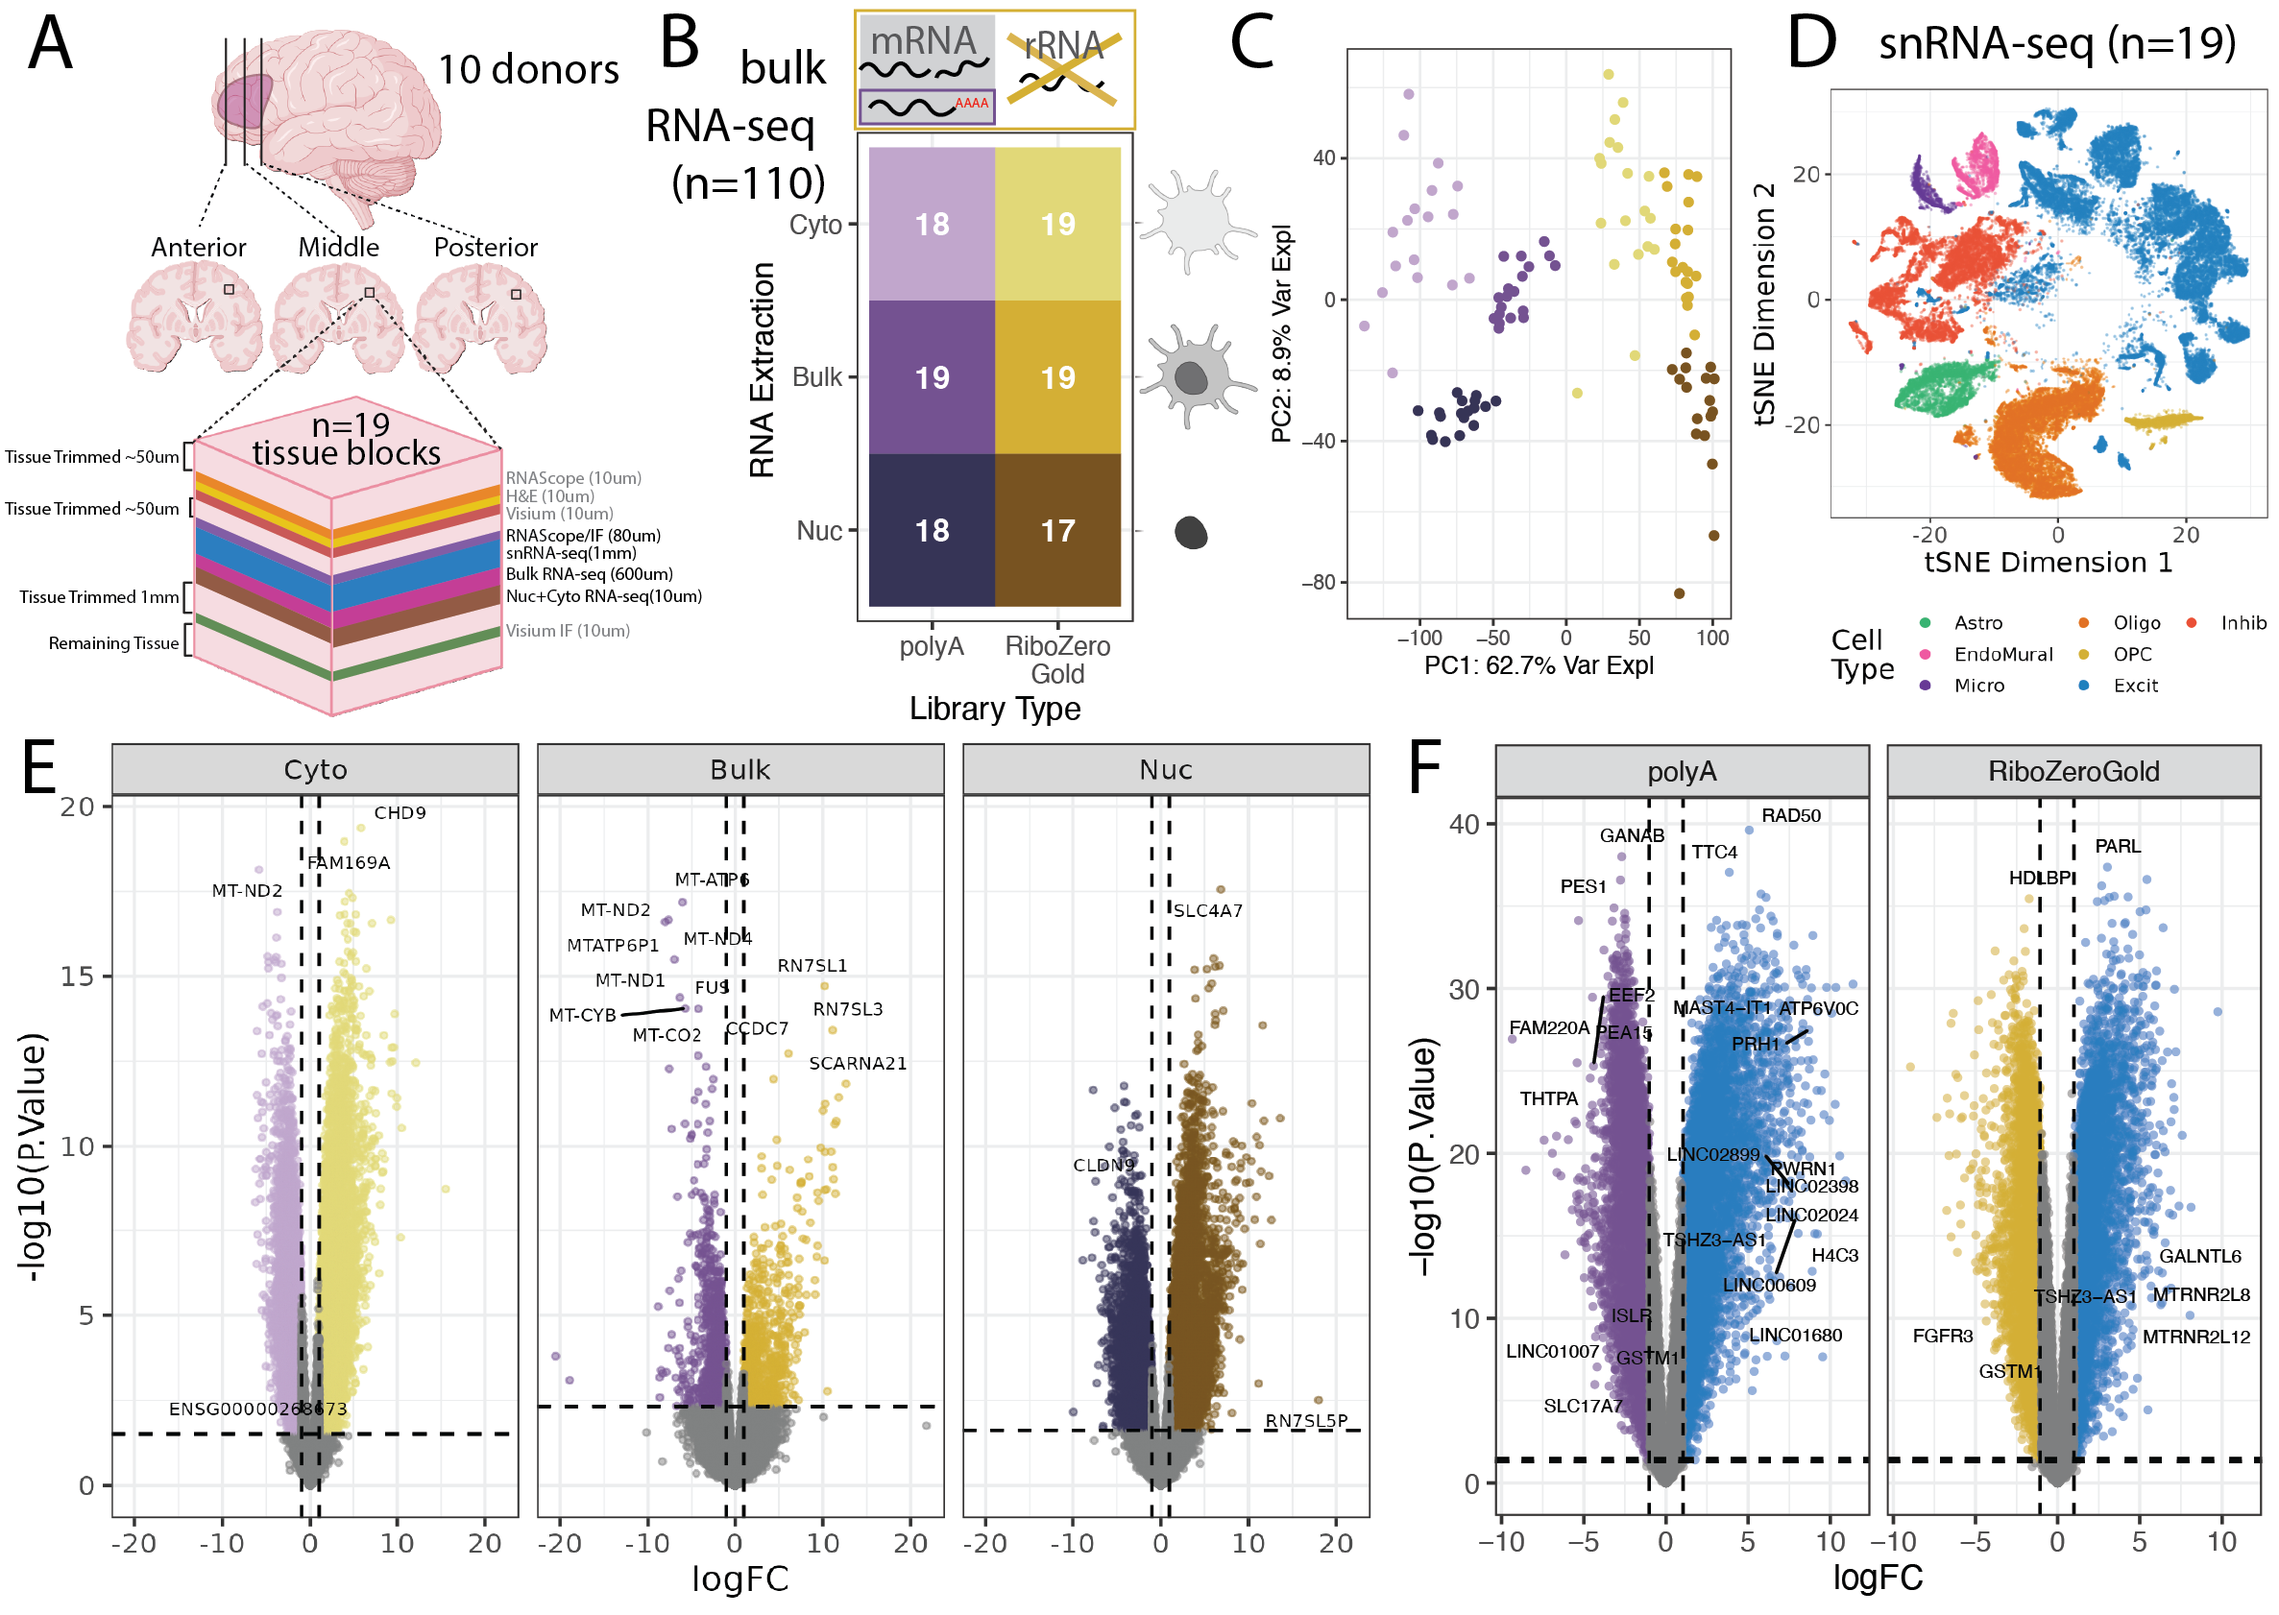
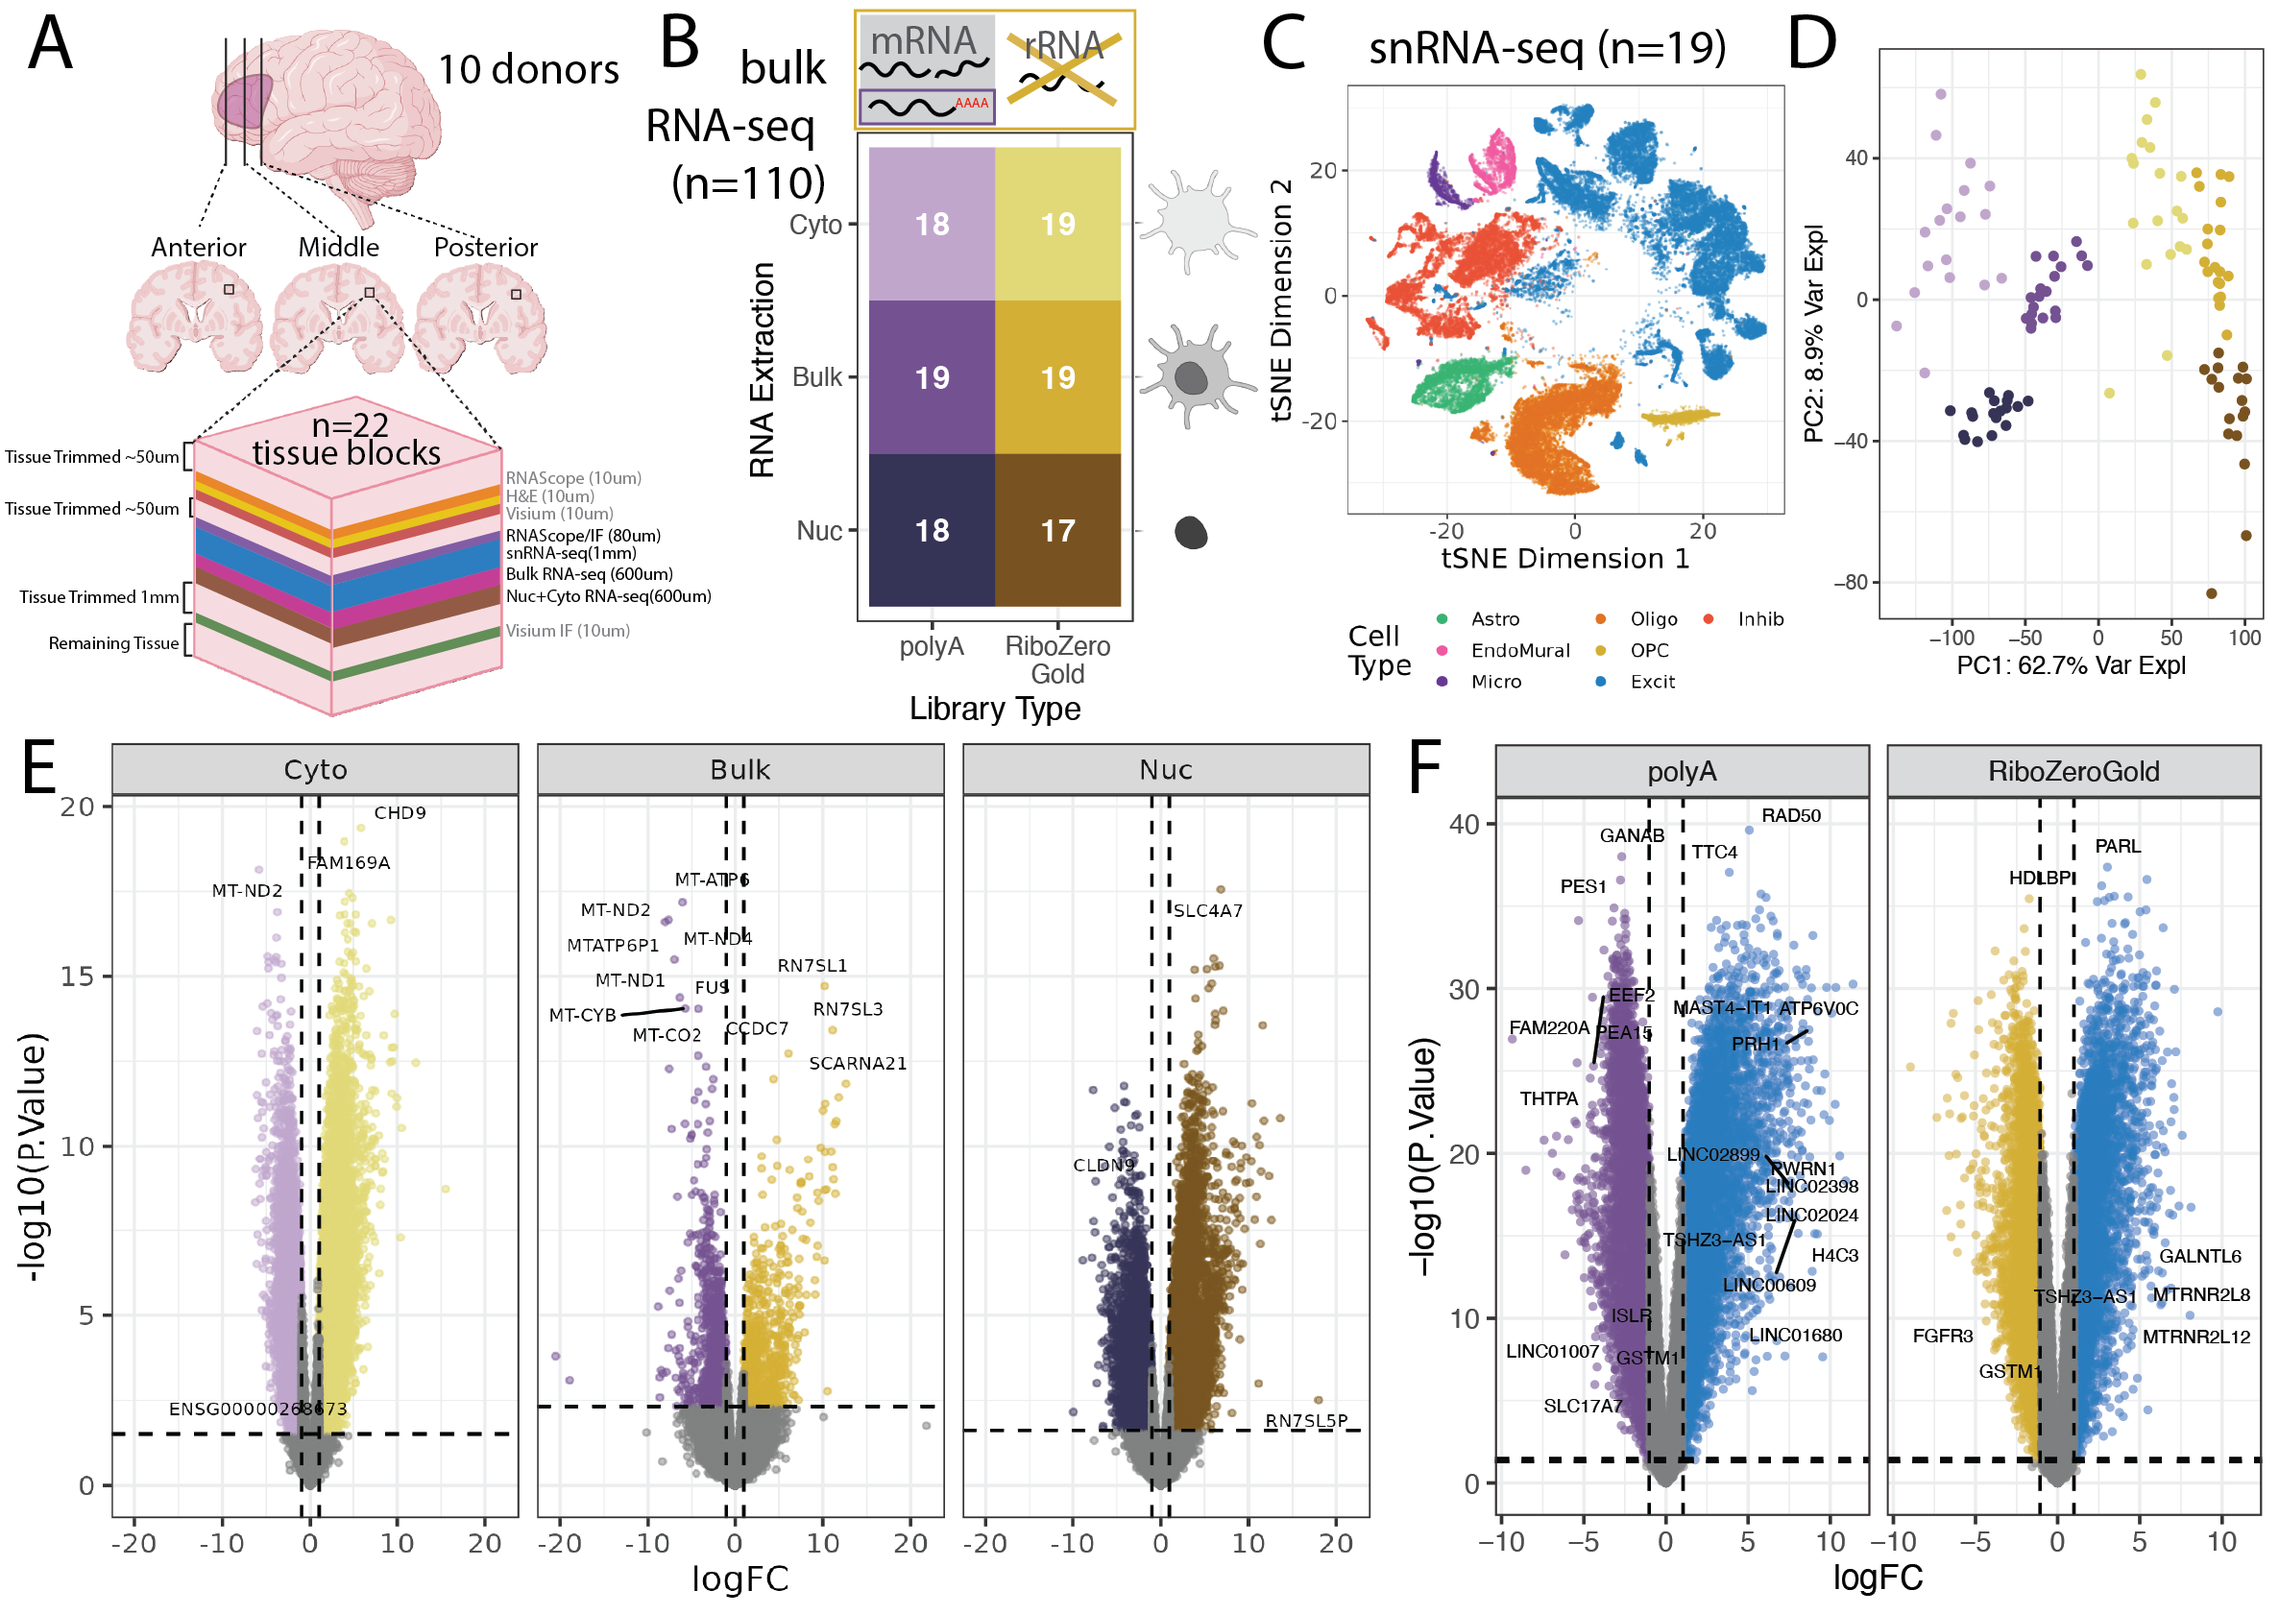
Update Fig 1 caption + image

diff --git a/README.md b/README.md
@@ -10,7 +10,7 @@ This is an integrative, multi-assay project including individual-matched data ge
   <img src= "overview.png" width="800" >
 </p>
 
-**Experimental Design Overview and Exploration of Gene Detection in Different Assays**. **A**. Human postmortem brain dorsolateral prefrontal cortex (DLPFC) tissue blocks across the anterior to posterior axis from 10 donors were dissected for a total of 19 tissue blocks, these tissue blocks are a subset of the 30 tissue blocks that were used in a [previous spatial transcriptomic study](https://doi.org/10.1101/2023.02.15.528722). For each block, sequential slides were cut for different assays while maintaining the same white matter vs gray matter orientation. **B**. snRNA-seq data, generated as part of the same spatial transcriptomic study was collected for 19 tissue blocks ([Huuki et al., 2023](https://doi.org/10.1101/2023.02.15.528722)), from which bulk RNA-seq data was also generated across two library preparations (polyA in purple or RiboZeroGold in gold) and three different RNA extractions targeting different cell fractions: cytosolic (Cyto, light color), whole cell (Bulk, intermediate color), or nuclear (Nuc, dark color) in this study. **C**. Scatter plot of bulk RNA-seq principal components (PCs) 1 and 2. PC1 is associated with library type and PC2 with RNA extraction method. Colors are the same as groups in B. **D**. tSNE plot of the reference snRNA-seq data at the broad cell type resolution. **E**. Volcano plots for the differential expression analysis between polyA and RiboZero, faceted by RNA extraction method. The colors of the points are the same as B. **F**. Volcano plot for the differential expression analysis between total bulk RNA-seq (point colors same as _E_) and snRNA-seq (blue points).
+**Experimental design overview and exploration of gene detection in different assays**. **A**. Human postmortem brain dorsolateral prefrontal cortex (DLPFC) tissue blocks across the anterior to posterior axis from 10 donors were dissected for a total of 19 tissue blocks, these tissue blocks are a subset of the 30 tissue blocks that were used in a [previous spatial transcriptomic study](https://doi.org/10.1101/2023.02.15.528722). For each block, sequential slides were cut for different assays while maintaining the same white matter vs gray matter orientation. **B**. nRNA-seq data, generated as part of the same spatial transcriptomic study was collected for 19 tissue blocks [Huuki-Myers et al.](https://doi.org/10.1101/2023.02.15.528722), from which bulk RNA-seq data was also generated across two library preparations (polyA in purple or RiboZeroGold in gold) and three different RNA extractions targeting different cell fractions: cytosolic (Cyto, light color), whole cell (Bulk/Total, intermediate color), or nuclear (Nuc, dark color) in this study. **C**. tSNE plot of the reference snRNA-seq data at the broad cell type resolution. **D**. Scatter plot of bulk RNA-seq principal components (PCs) 1 and 2. PC1 is associated with library type and PC2 with RNA extraction method. Colors are the same as groups in _B_. **E**. Volcano plots for the differential expression analysis between polyA and RiboZeroGold, faceted by RNA extraction method. The colors of the points are the same as _B_. Volcano plot for the differential expression analysis between total bulk RNA-seq (point colors same as _E_) and snRNA-seq (blue points). Annotations are the same as _E_.
 
 ## Citation
 
